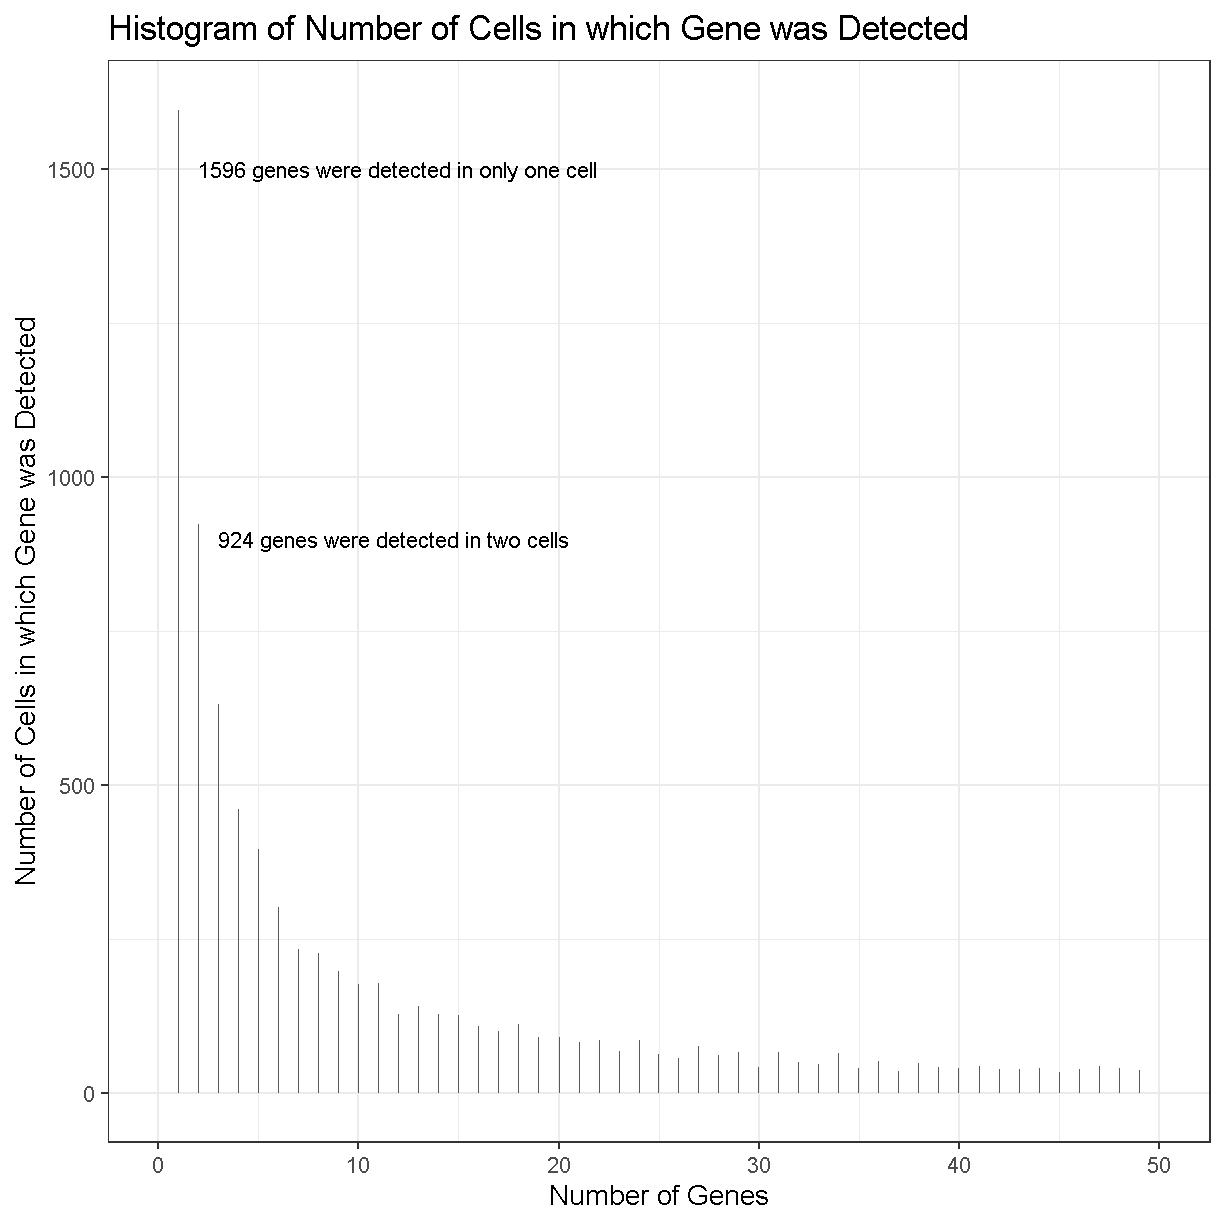
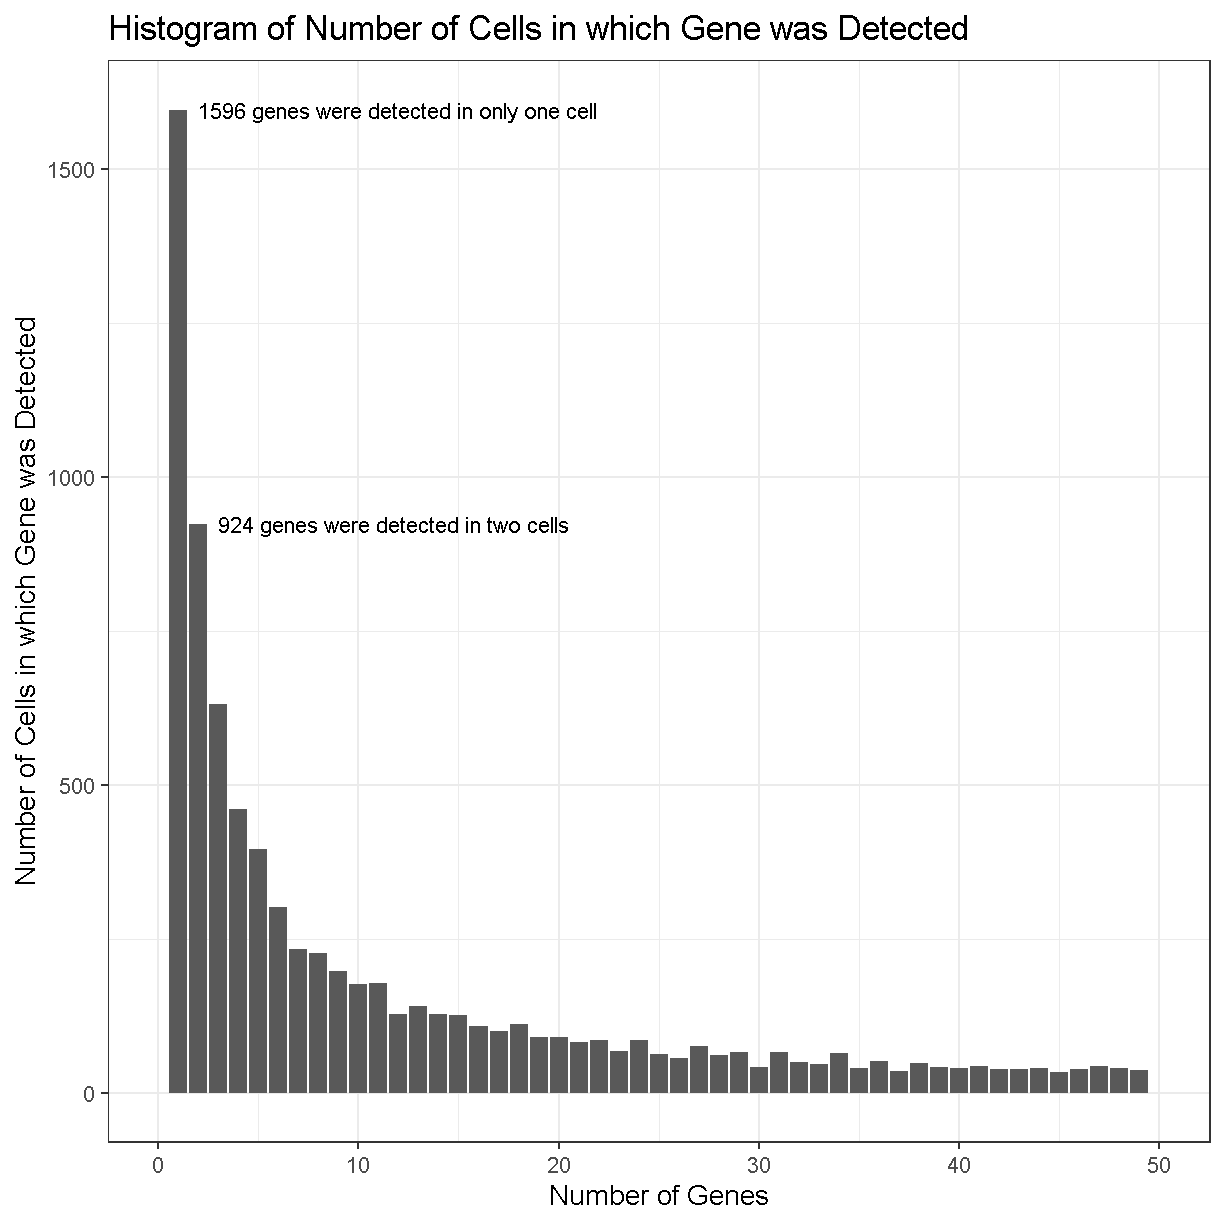
Fixed cell & gene count figure

Changed region(s): [[0.1242, 0.0931, 0.9624, 0.9003]]

diff --git a/_episodes/04-Quality-Control.md b/_episodes/04-Quality-Control.md
@@ -86,8 +86,8 @@ doublet_preds <- colData(sce)
 
 ~~~
             used   (Mb) gc trigger   (Mb)  max used   (Mb)
-Ncells   7227842  386.1   11674654  623.5  10366827  553.7
-Vcells 179723670 1371.2  434203821 3312.8 434203775 3312.8
+Ncells   7227813  386.1   11674568  623.5  10366686  553.7
+Vcells 179723581 1371.2  434203714 3312.8 434203686 3312.8
 ~~~
 {: .output}
 
@@ -161,43 +161,27 @@ stored as 0 and so the matrix would still be sparse. The `Matrix` package has
 an implementation of 'rowSums()' that is efficient, but you may have to specify 
 that you want to used the `Matrix` version of 'rowSums()' explicitly.
 
-
-~~~
-gene_counts <- tibble(counts  = Matrix::rowSums(counts > 0))
-
-gene_counts %>% 
-  ggplot(aes(counts)) +
-    geom_histogram(bins = 1000) +
-    labs(title = 'Histogram of Number of Cells in which Gene was Detected',
-         x     = 'Number of Genes',
-         y     = 'Number of Cells in which Gene was Detected') +
-  theme_bw(base_size = 14)
-~~~
-{: .language-r}
-
-<div class="figure" style="text-align: center">
-<img src="../fig/rmd-04-gene_count_hist-1.png" width="612" />
-<p class="caption">plot of chunk gene_count_hist</p>
-</div>
-
-As you can see, the number of cells in which each gene is detected spans several 
+The number of cells in which each gene is detected spans several 
 orders of magnitude and this makes it difficult to interpret the plot. Some 
 genes are detected in all cells while others are detected in only one cell. 
 Let's zoom in on the part with lower gene counts.
 
 
 ~~~
-gene_counts %>%
-  ggplot(aes(counts)) +
-    geom_histogram(bins = 1000) +
+gene_counts <- tibble(counts  = Matrix::rowSums(counts > 0))
+
+gene_counts %>% 
+  dplyr::count(counts) %>%
+  ggplot(aes(counts, n)) +
+    geom_col() +
     labs(title = 'Histogram of Number of Cells in which Gene was Detected',
          x     = 'Number of Genes',
          y     = 'Number of Cells in which Gene was Detected') +
     lims(x = c(0, 50)) +
     theme_bw(base_size = 14) +
-    annotate('text', x = 2, y = 1500, hjust = 0,
+    annotate('text', x = 2, y = 1596, hjust = 0,
              label = str_c(sum(gene_counts == 1), ' genes were detected in only one cell')) +
-    annotate('text', x = 3, y = 900, hjust = 0,
+    annotate('text', x = 3, y = 924, hjust = 0,
              label = str_c(sum(gene_counts == 2), ' genes were detected in two cells'))
 ~~~
 {: .language-r}
@@ -205,14 +189,14 @@ gene_counts %>%
 
 
 ~~~
-Warning: Removed 15823 rows containing non-finite values (`stat_bin()`).
+Warning: Removed 9334 rows containing missing values (`position_stack()`).
 ~~~
 {: .warning}
 
 
 
 ~~~
-Warning: Removed 2 rows containing missing values (`geom_bar()`).
+Warning: Removed 1 rows containing missing values (`geom_col()`).
 ~~~
 {: .warning}
 
@@ -364,8 +348,8 @@ gc()
 
 ~~~
             used   (Mb) gc trigger   (Mb)  max used   (Mb)
-Ncells   7350433  392.6   11674654  623.5  11674654  623.5
-Vcells 180313398 1375.7  521124585 3975.9 464744217 3545.8
+Ncells   7359484  393.1   11674568  623.5  11537299  616.2
+Vcells 180333720 1375.9  521124456 3975.9 464764542 3545.9
 ~~~
 {: .output}
 

diff --git a/_episodes/06-Biology-Driven-Analyses.md b/_episodes/06-Biology-Driven-Analyses.md
@@ -306,28 +306,28 @@ Computing SNN
 
 
 ~~~
-07:37:34 UMAP embedding parameters a = 0.9922 b = 1.112
+14:39:16 UMAP embedding parameters a = 0.9922 b = 1.112
 ~~~
 {: .output}
 
 
 
 ~~~
-07:37:34 Read 44253 rows and found 24 numeric columns
+14:39:16 Read 44253 rows and found 24 numeric columns
 ~~~
 {: .output}
 
 
 
 ~~~
-07:37:34 Using Annoy for neighbor search, n_neighbors = 30
+14:39:16 Using Annoy for neighbor search, n_neighbors = 30
 ~~~
 {: .output}
 
 
 
 ~~~
-07:37:34 Building Annoy index with metric = cosine, n_trees = 50
+14:39:16 Building Annoy index with metric = cosine, n_trees = 50
 ~~~
 {: .output}
 
@@ -349,13 +349,13 @@ Computing SNN
 
 ~~~
 **************************************************|
-07:37:38 Writing NN index file to temp file C:\Users\c-dgatti\AppData\Local\Temp\RtmpUVrCjx\file7424704e65cd
-07:37:38 Searching Annoy index using 1 thread, search_k = 3000
-07:37:49 Annoy recall = 100%
-07:37:50 Commencing smooth kNN distance calibration using 1 thread with target n_neighbors = 30
-07:37:52 Initializing from normalized Laplacian + noise (using irlba)
-07:38:03 Commencing optimization for 200 epochs, with 1888866 positive edges
-07:38:41 Optimization finished
+14:39:20 Writing NN index file to temp file C:\Users\c-dgatti\AppData\Local\Temp\Rtmpgpr49B\filef1c7ec13561
+14:39:20 Searching Annoy index using 1 thread, search_k = 3000
+14:39:31 Annoy recall = 100%
+14:39:32 Commencing smooth kNN distance calibration using 1 thread with target n_neighbors = 30
+14:39:35 Initializing from normalized Laplacian + noise (using irlba)
+14:39:45 Commencing optimization for 200 epochs, with 1888866 positive edges
+14:40:27 Optimization finished
 ~~~
 {: .output}
 

diff --git a/_episodes/05-Common-Analyses.md b/_episodes/05-Common-Analyses.md
@@ -246,7 +246,7 @@ Formal class 'Seurat' [package "SeuratObject"] with 13 slots
   ..@ commands    :List of 2
   .. ..$ NormalizeData.RNA       :Formal class 'SeuratCommand' [package "SeuratObject"] with 5 slots
   .. .. .. ..@ name       : chr "NormalizeData.RNA"
-  .. .. .. ..@ time.stamp : POSIXct[1:1], format: "2023-10-04 07:27:30"
+  .. .. .. ..@ time.stamp : POSIXct[1:1], format: "2023-10-04 14:29:33"
   .. .. .. ..@ assay.used : chr "RNA"
   .. .. .. ..@ call.string: chr "NormalizeData(., normalization.method = \"LogNormalize\")"
   .. .. .. ..@ params     :List of 5
@@ -257,7 +257,7 @@ Formal class 'Seurat' [package "SeuratObject"] with 13 slots
   .. .. .. .. ..$ verbose             : logi TRUE
   .. ..$ FindVariableFeatures.RNA:Formal class 'SeuratCommand' [package "SeuratObject"] with 5 slots
   .. .. .. ..@ name       : chr "FindVariableFeatures.RNA"
-  .. .. .. ..@ time.stamp : POSIXct[1:1], format: "2023-10-04 07:27:37"
+  .. .. .. ..@ time.stamp : POSIXct[1:1], format: "2023-10-04 14:29:39"
   .. .. .. ..@ assay.used : chr "RNA"
   .. .. .. ..@ call.string: chr "FindVariableFeatures(., nfeatures = 2000)"
   .. .. .. ..@ params     :List of 12
